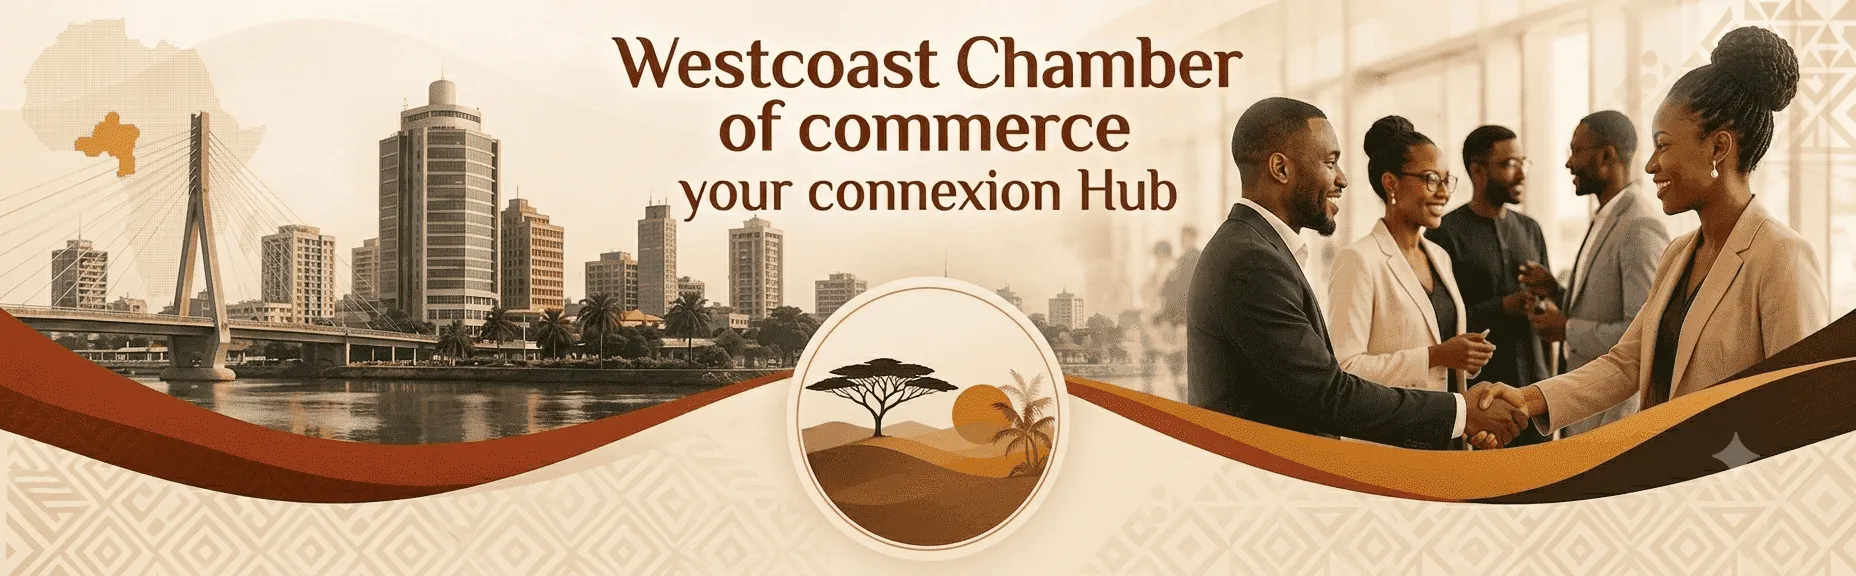
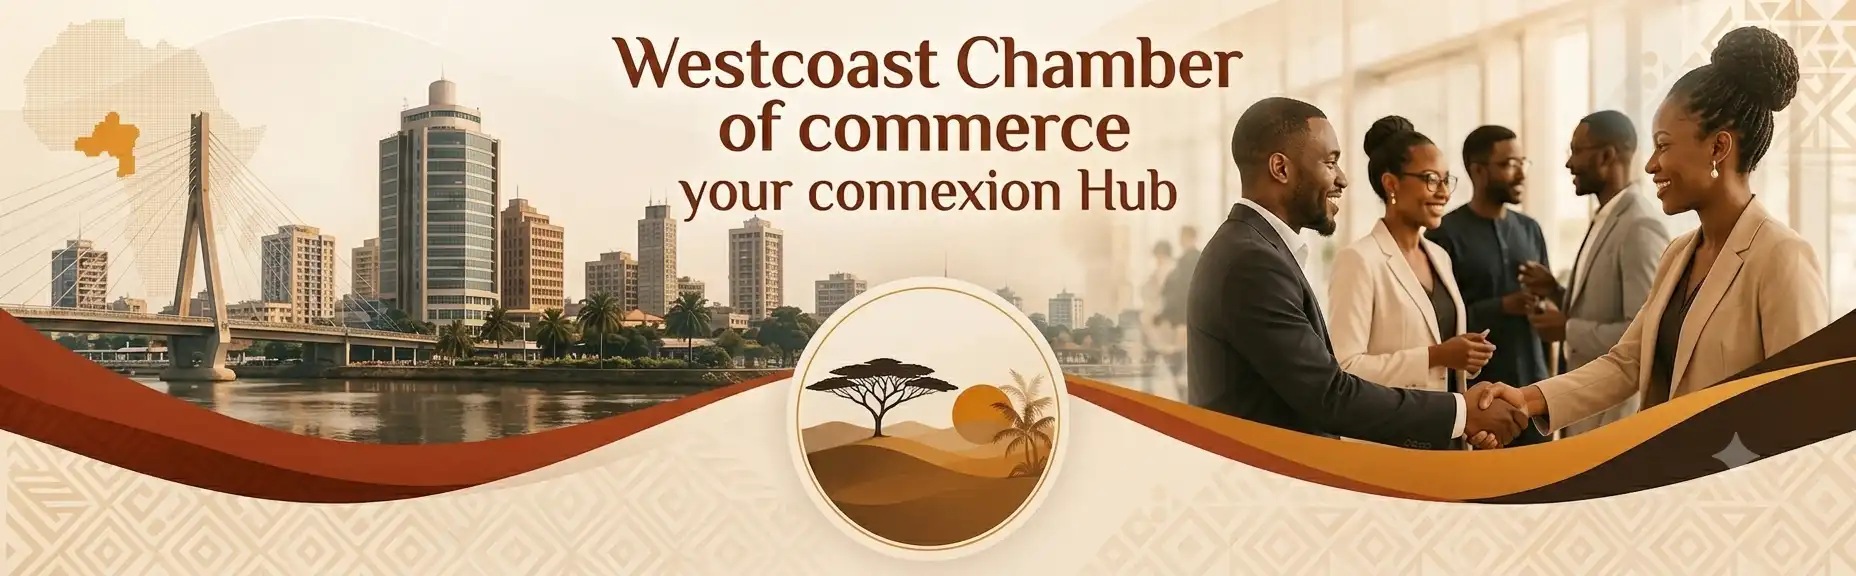
W03 home page assignement - fixing audit issue 2

diff --git a/chamber/styles/small.css b/chamber/styles/small.css
@@ -344,7 +344,7 @@ footer {
     display: inline-block;
     margin-top: 0.75rem;
     padding: 0.7rem 1.5rem;
-    background-color: var(--secondary-color);
+    background-color: var(--bg-light);
     color: #221a15;
     font-weight: bold;
     text-decoration: none;
@@ -445,4 +445,11 @@ footer {
 .silver-badge {
     background-color: #e0e0e0;
     color: #37474f;
+}
+
+
+hr {
+    border: none;
+    height: 1px;
+    background-color: var(--secondary-color);
 }

diff --git a/chamber/index.html b/chamber/index.html
@@ -77,7 +77,7 @@
             <h2>Local Weather</h2>
             <div class="weather-current">
                 <!-- Icon is populated entirely by JavaScript -->
-                <img id="weather-icon" src="" alt="" width="64" height="64" loading="lazy">
+                <img id="weather-icon" src="images/refresh.png" alt="Loading weather icon" width="64" height="64" loading="lazy">
                 <div class="weather-details">
                     <p><span id="current-temp">--</span>°C</p>
                     <p id="weather-desc" class="capitalize">Loading weather...</p>